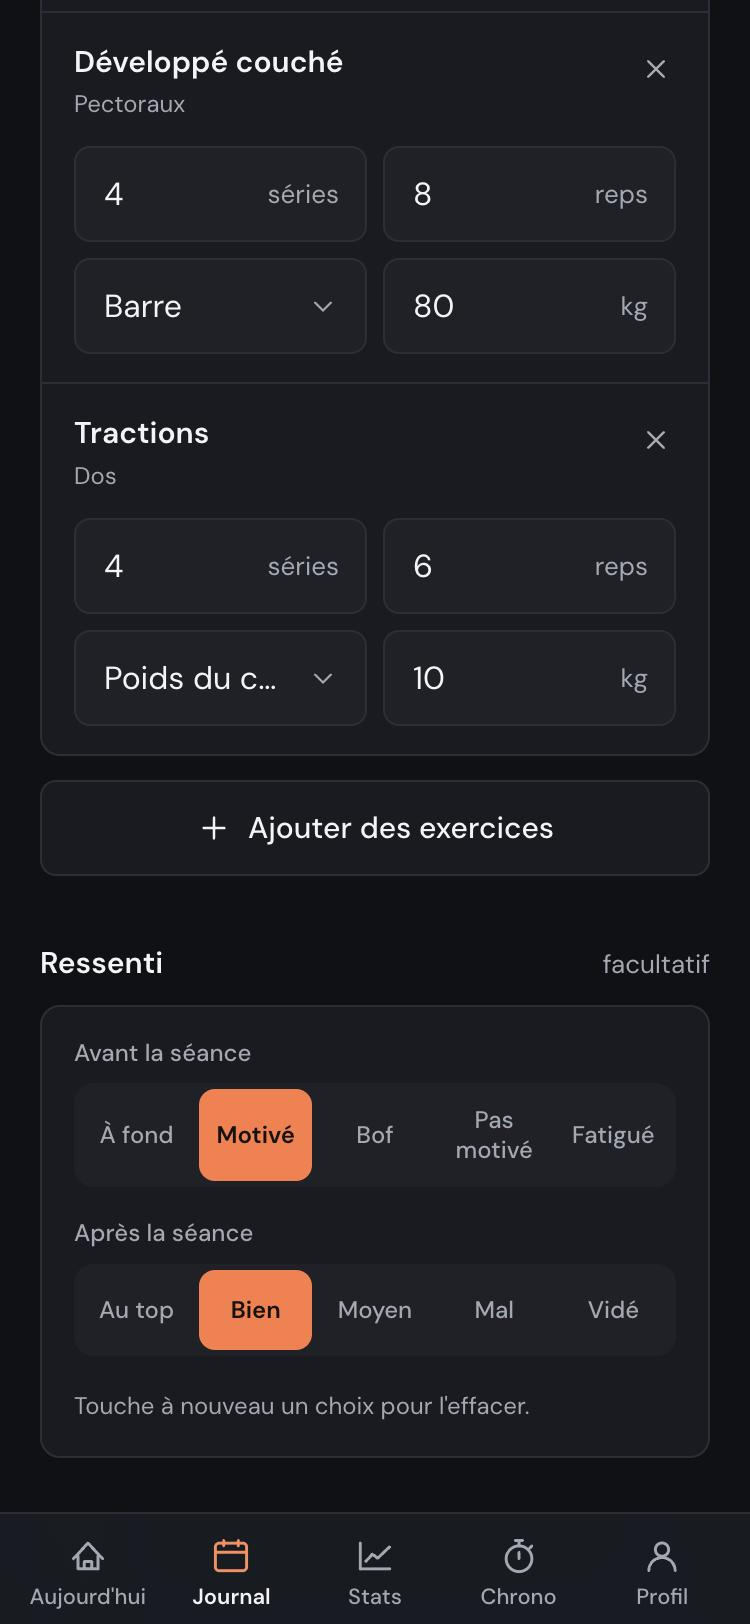
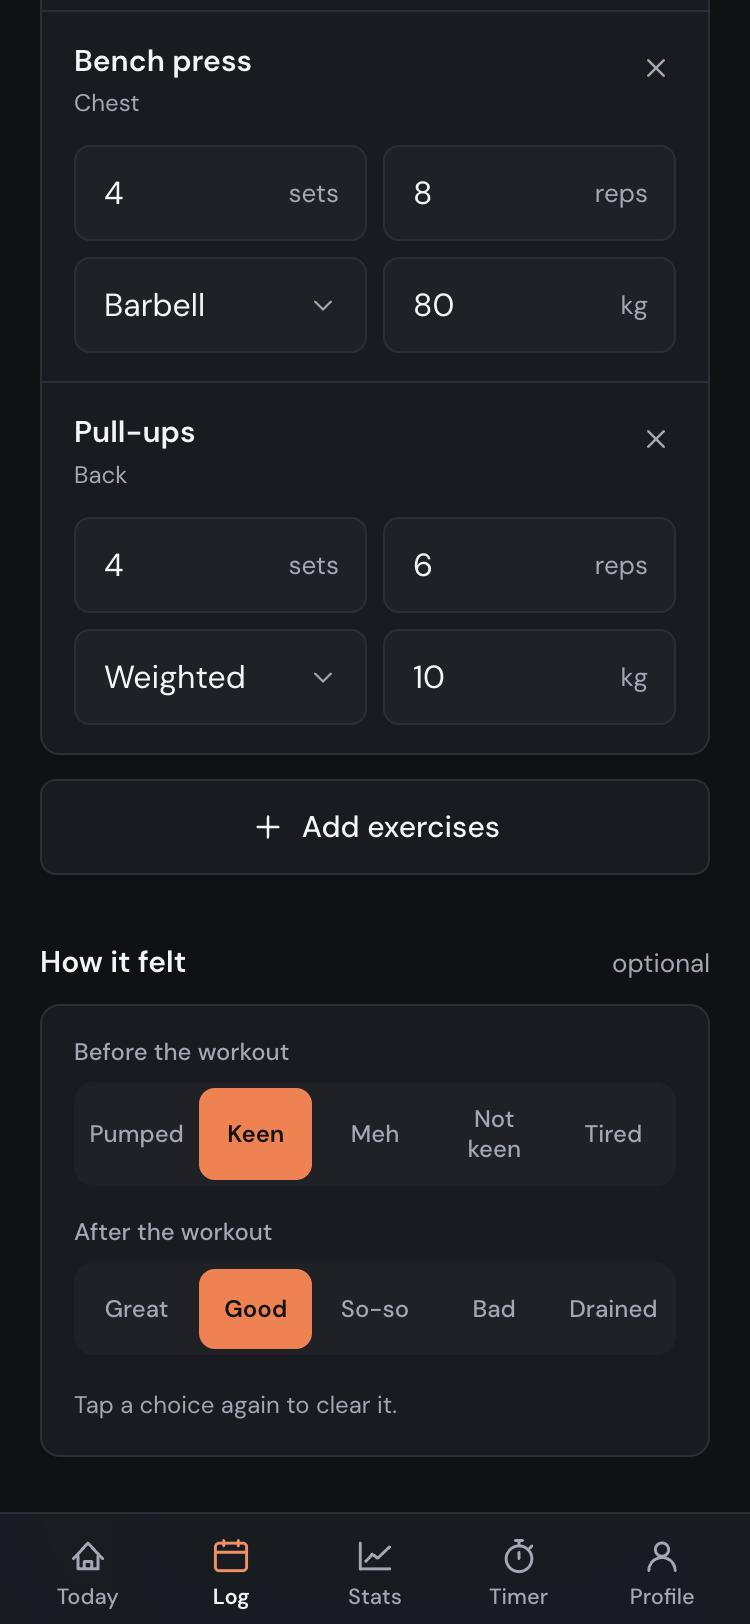
Refait les captures du README en anglais
Les quatre mêmes vues, à l'identique : accueil, statistiques de la semaine
dernière, saisie d'une séance au niveau du ressenti, chronomètre avec ses
réglages par défaut.

En anglais, le matériel « Poids du corps + lest » s'appelle désormais
« Weighted », le terme courant en salle : l'ancien libellé était coupé dans
la liste déroulante.

diff --git a/convex/data/exercices.ts b/convex/data/exercices.ts
@@ -40,7 +40,7 @@ export const MATERIELS = [
   },
   {
     cle: "lest",
-    libelle: { fr: "Poids du corps + lest", en: "Bodyweight + added load" },
+    libelle: { fr: "Poids du corps + lest", en: "Weighted" },
     court: { fr: "lest", en: "weighted" },
   },
   { cle: "barre", libelle: { fr: "Barre", en: "Barbell" }, court: { fr: "barre", en: "barbell" } },
